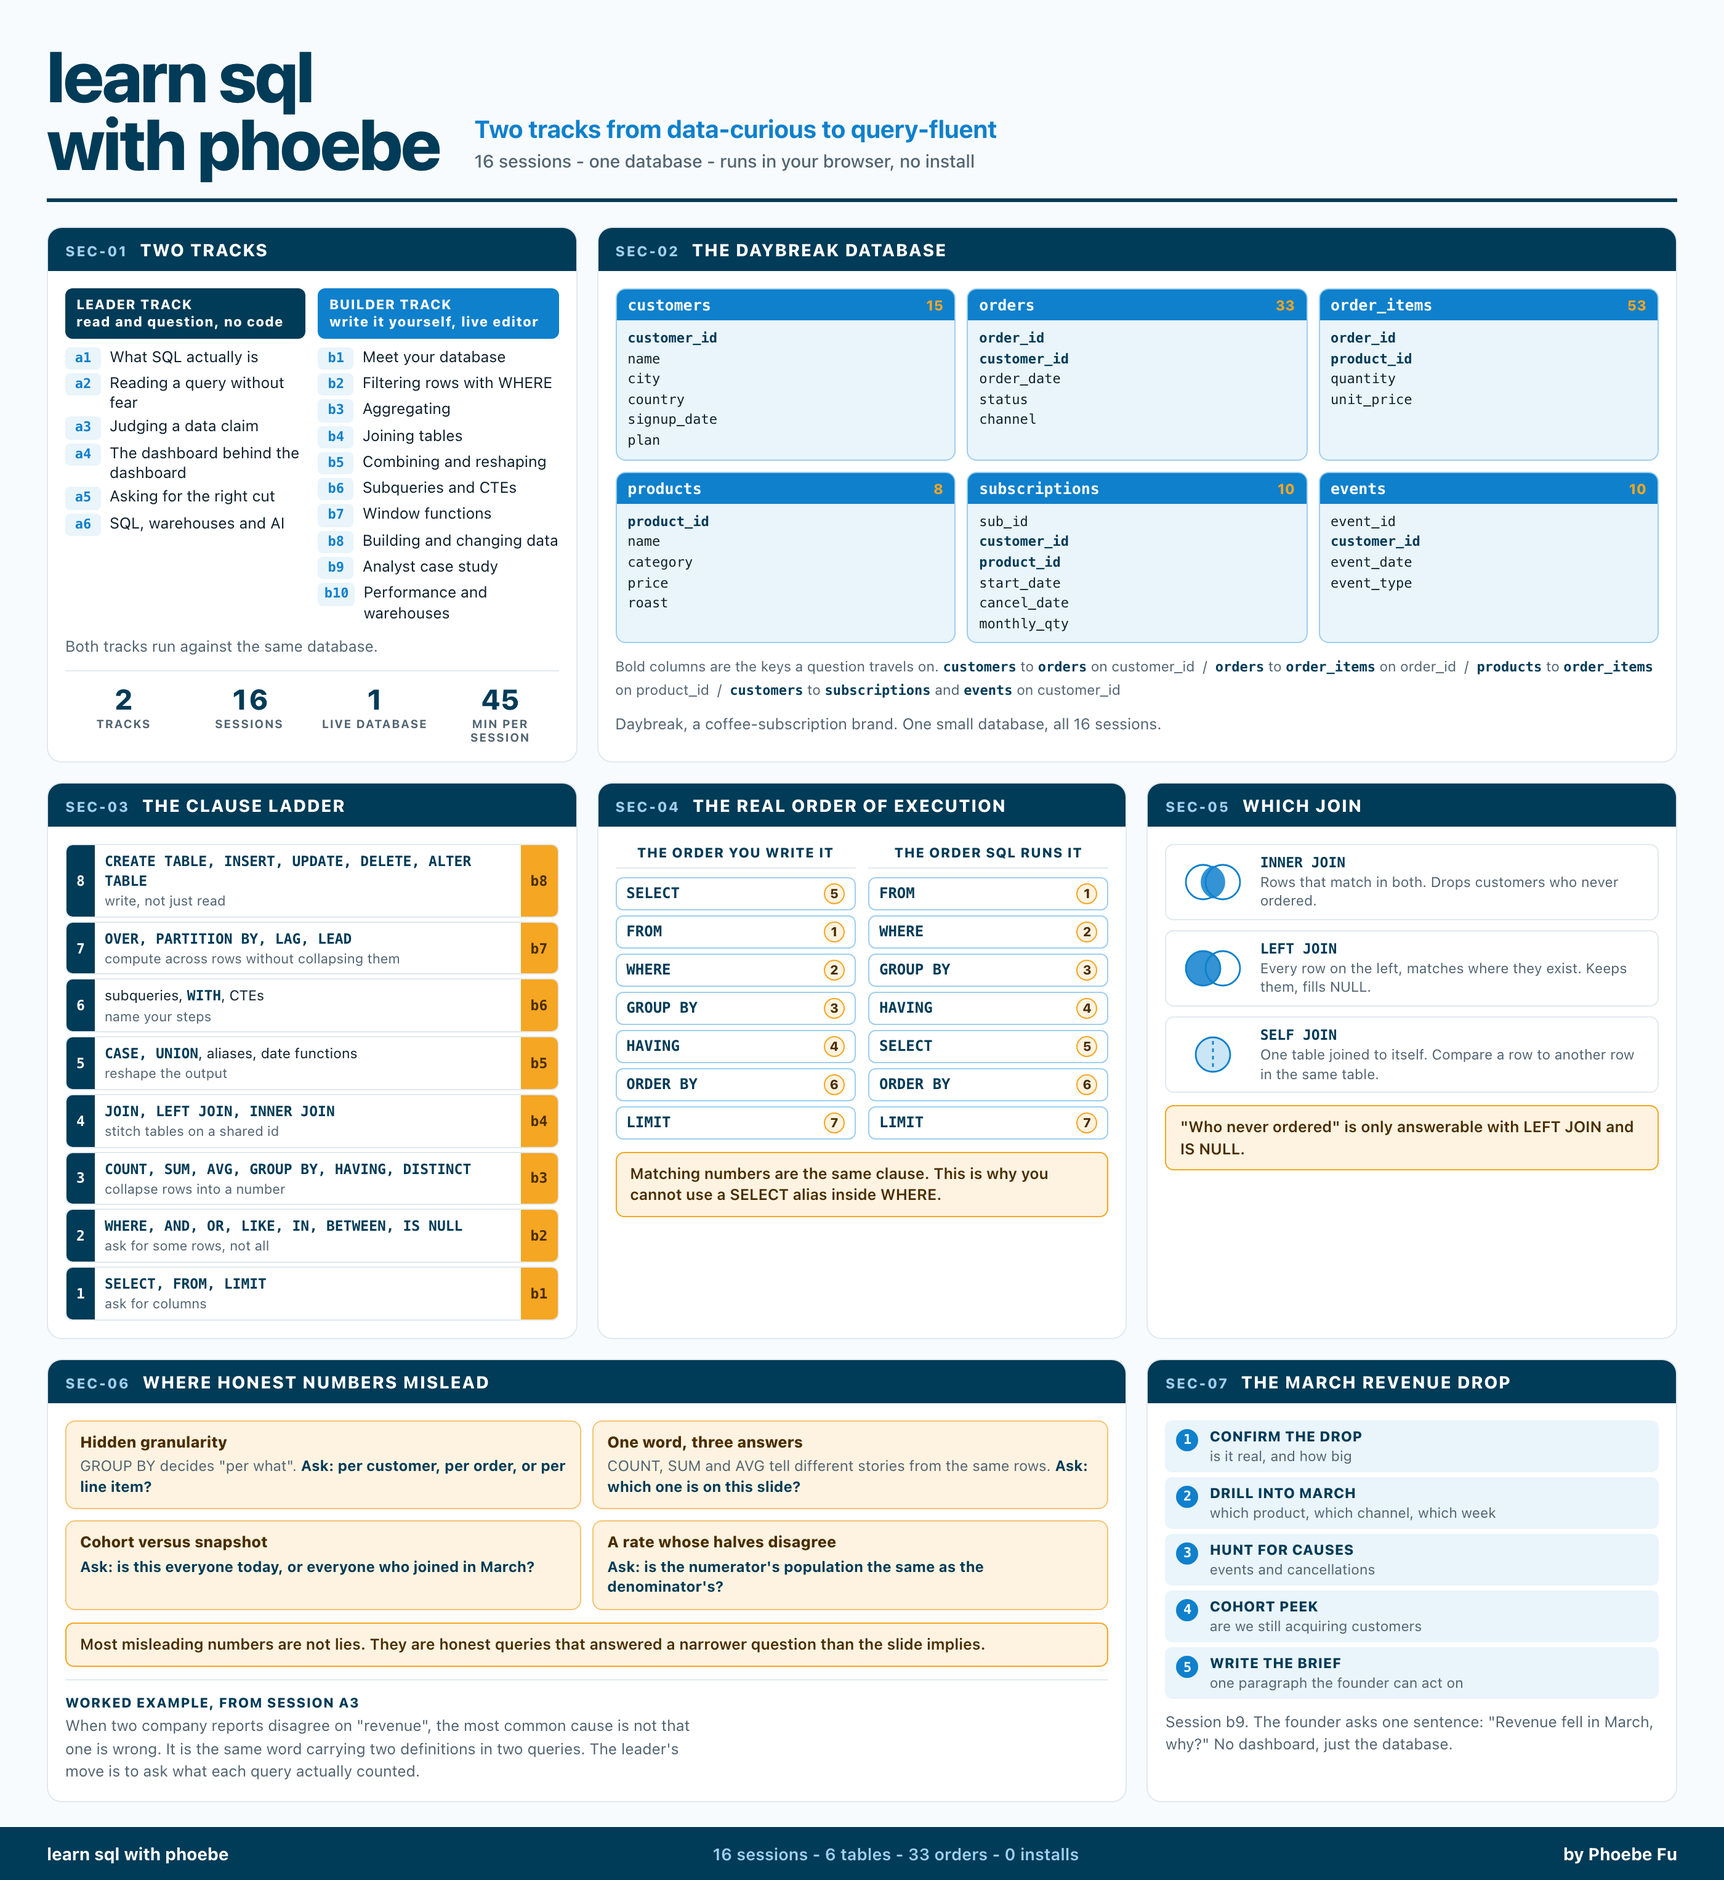
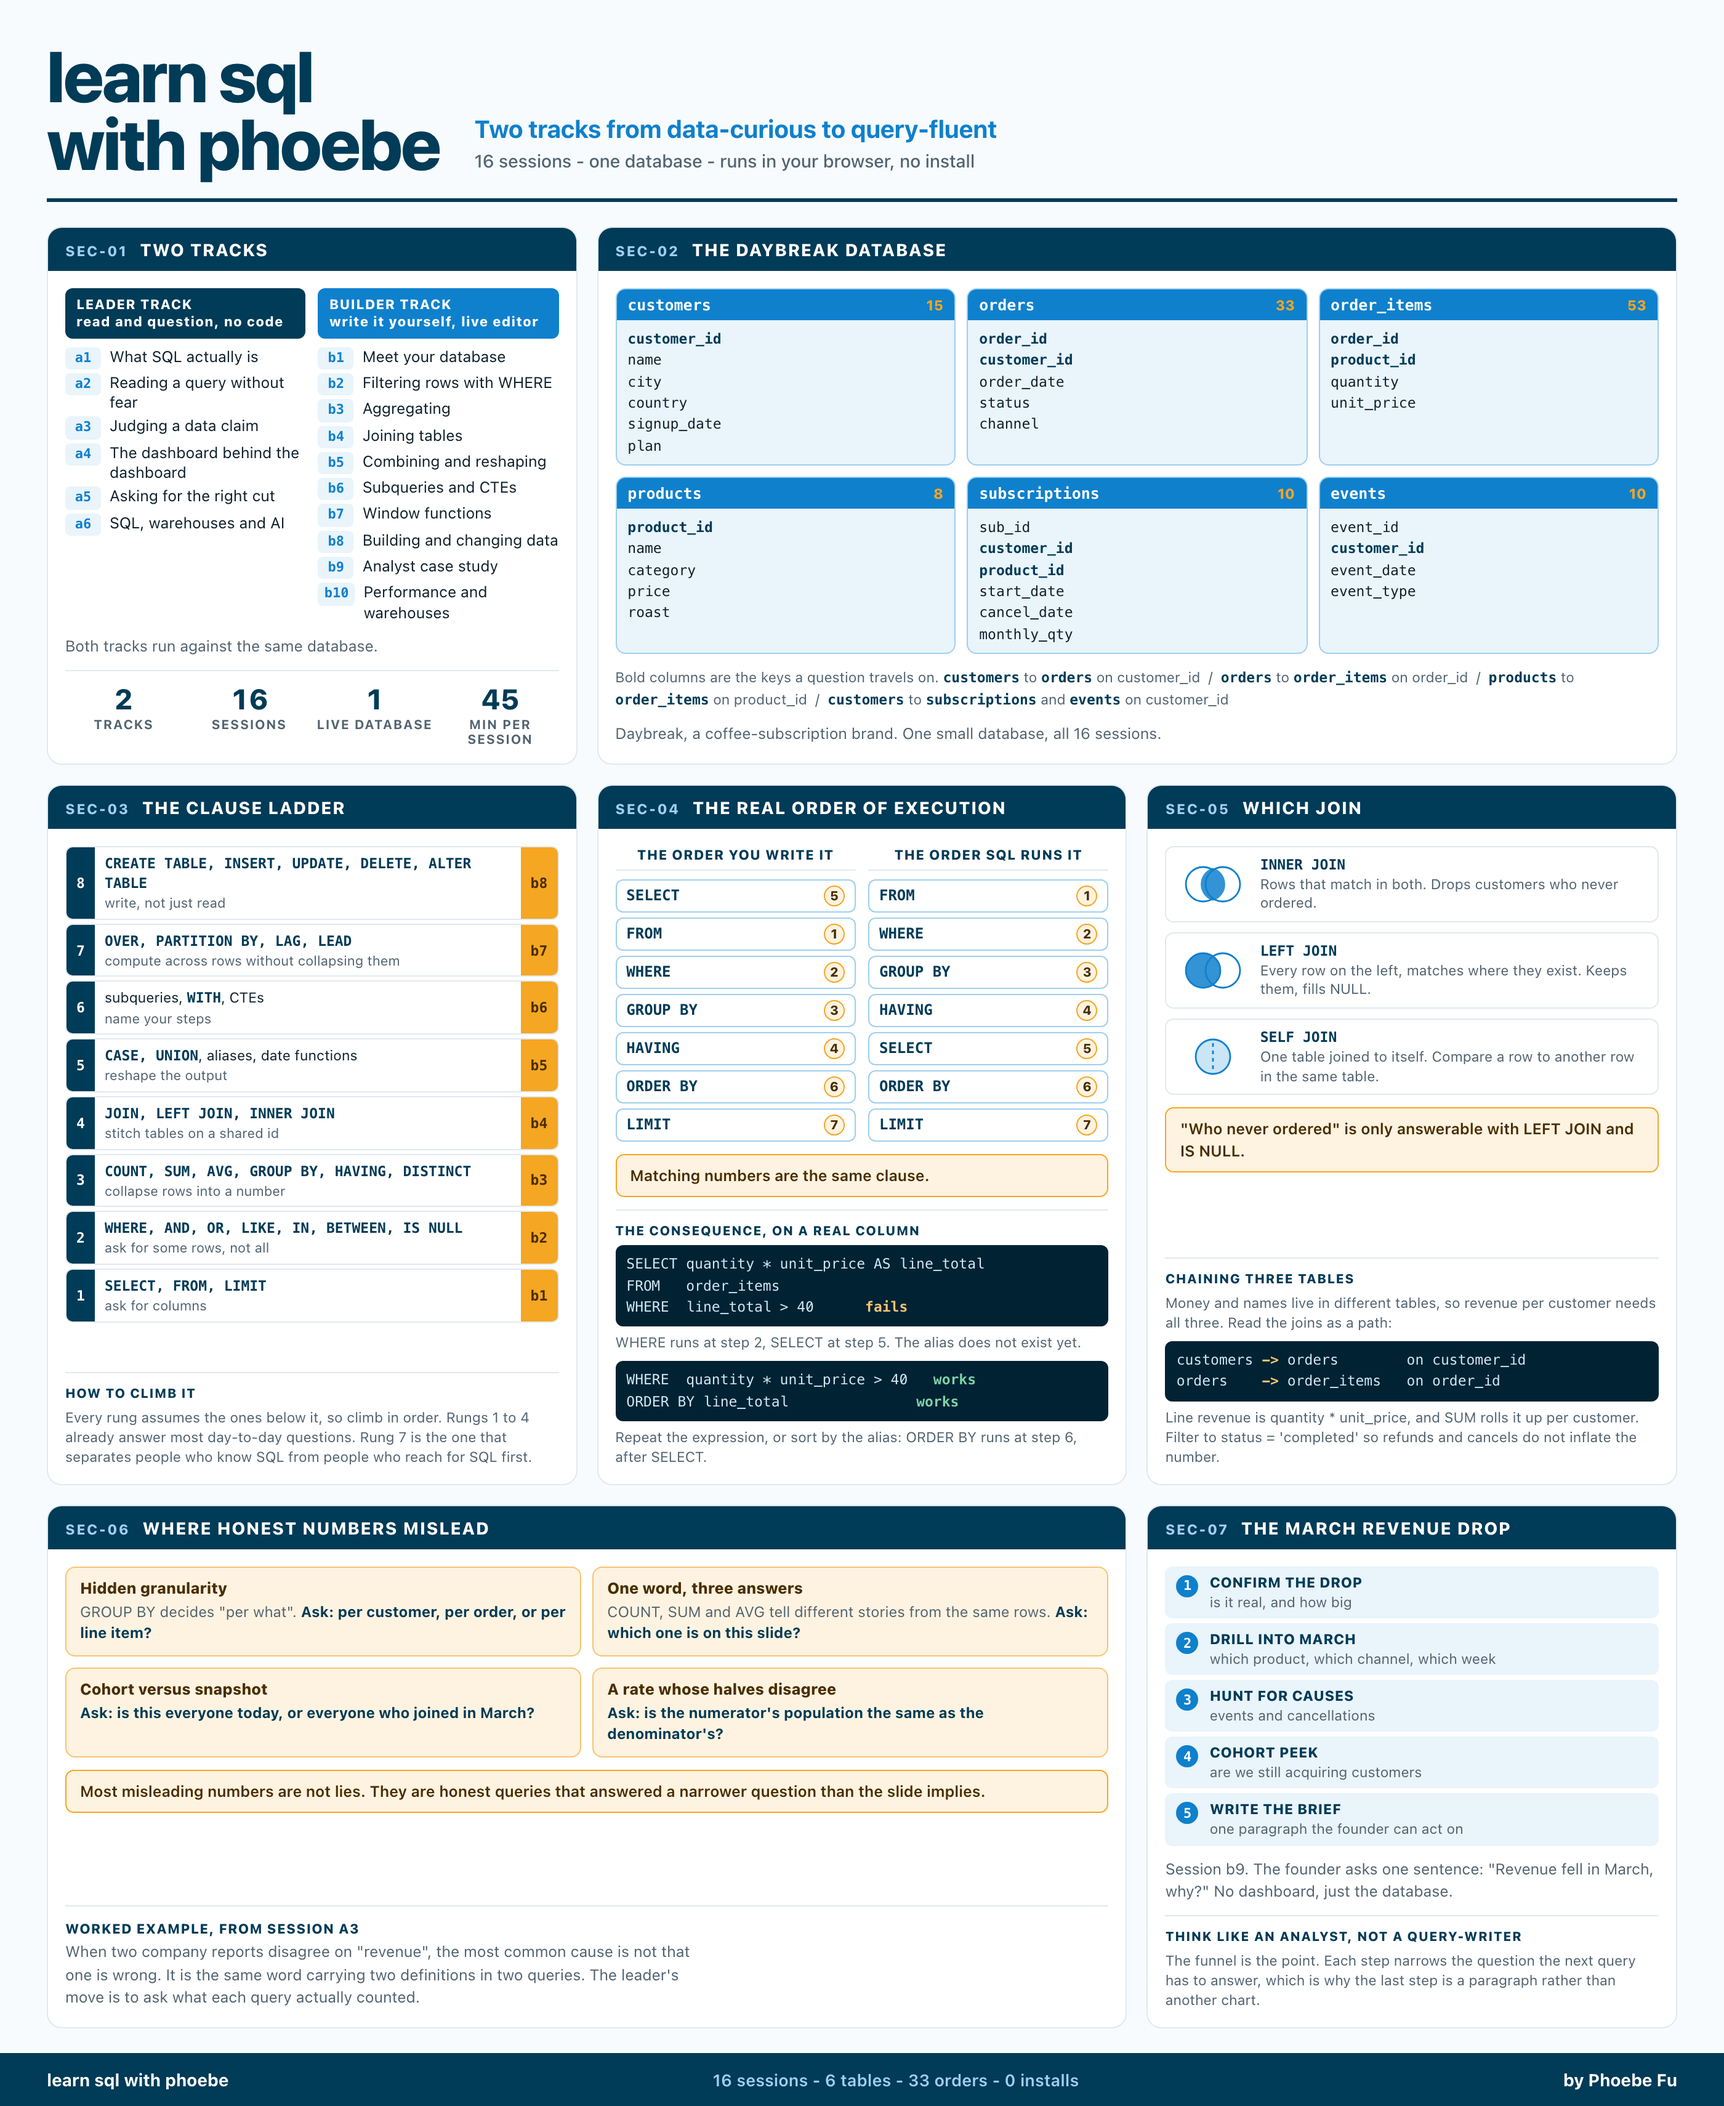
Fill the poster's empty column feet with content the course actually teaches
SEC-03 set the height of the middle row, so SEC-04 and SEC-05 each ended in a
200px void. Rather than pad or shrink, all three modules now carry the material
that was missing from them anyway.

SEC-04 gains the consequence of its own rule, on a real Daybreak column: selecting
quantity * unit_price AS line_total and then filtering WHERE line_total > 40 fails,
because WHERE runs at step 2 and SELECT at step 5, so the alias does not exist yet.
Repeating the expression works, and sorting by the alias works too, because ORDER BY
runs at step 6. The numbered execution order directly above it is what makes both
answers obvious.

SEC-05 gains the three-table chain from session b4: customers to orders on
customer_id, orders to order_items on order_id, line revenue as quantity *
unit_price, and the status = 'completed' filter that keeps refunds and cancels from
inflating the total.

SEC-03 gains how to climb it, and SEC-07 the framing from its own session: the funnel
is the point, each step narrowing the question the next query has to answer, which is
why the last step is a paragraph rather than another chart.

Foot gaps across all seven modules are now 15 to 21px, which is the padding.

Type was audited at the same time, since fit-to-width scales everything. Code blocks
and schema columns went to 11.5px and stat captions to 10.5px, so no source size is
now under 10px and nothing drops below 10.1px effective at a 1280 laptop. The sheet
grew to 2800x3420 for print.
[…]

diff --git a/poster.html b/poster.html
@@ -12,7 +12,7 @@
 <meta property="og:url" content="https://phoebefu6.github.io/learn-sql-with-phoebe/poster.html">
 <meta property="og:image" content="https://phoebefu6.github.io/learn-sql-with-phoebe/assets/poster/learn-sql-with-phoebe-poster.webp">
 <meta property="og:image:width" content="1400">
-<meta property="og:image:height" content="1526">
+<meta property="og:image:height" content="1710">
 <meta name="twitter:card" content="summary_large_image">
 <meta name="twitter:title" content="learn sql with phoebe - the whole course on one poster">
 <meta name="twitter:description" content="The whole SQL course on one sheet: both tracks, the Daybreak schema with real row counts, the clause ladder, the order SQL actually runs your query in, which join to reach for, and the four traps that make an honest query mislead.">
@@ -81,7 +81,7 @@
 .vposter .vp-stats div{text-align:center}
 .vposter .vp-stats b{display:block;font-size:23px;font-weight:800;color:var(--indigo-deep);line-height:1;
         font-variant-numeric:tabular-nums}
-.vposter .vp-stats span{display:block;font-size:9.5px;font-weight:700;color:var(--muted);
+.vposter .vp-stats span{display:block;font-size:10.5px;font-weight:700;color:var(--muted);
         text-transform:uppercase;letter-spacing:.07em;margin-top:3px}
 .vposter /* schema */ .vp-schema{display:grid;grid-template-columns:repeat(3,1fr);gap:9px}
 .vposter .vp-tbl{border:1px solid var(--indigo-soft);border-radius:8px;overflow:hidden;background:var(--indigo-50)}
@@ -89,10 +89,10 @@
         color:#fff;font-family:var(--mono);font-size:12.5px;font-weight:700;padding:5px 9px}
 .vposter .vp-tbl h4 span{font-family:var(--sans);font-size:11.5px;font-weight:800;color:var(--amber)}
 .vposter .vp-tbl ul{list-style:none;padding:7px 9px;display:flex;flex-direction:column;gap:1px}
-.vposter .vp-tbl li{font-family:var(--mono);font-size:11px;color:var(--ink);line-height:1.42}
+.vposter .vp-tbl li{font-family:var(--mono);font-size:11.5px;color:var(--ink);line-height:1.42}
 .vposter .vp-tbl li.vp-key{font-weight:700;color:var(--indigo-deep)}
 .vposter .vp-joins{font-size:11.5px;color:var(--muted);line-height:1.5}
-.vposter .vp-joins b{font-family:var(--mono);font-size:11px;color:var(--indigo-deep)}
+.vposter .vp-joins b{font-family:var(--mono);font-size:11.5px;color:var(--indigo-deep)}
 .vposter /* ladder */ .vp-lad{display:flex;flex-direction:column-reverse;gap:3px}
 .vposter .vp-rung{display:flex;align-items:stretch;gap:0;border:1px solid var(--hairline);border-radius:6px;
         overflow:hidden}
@@ -113,6 +113,15 @@
 .vposter .vp-ord li s{text-decoration:none;font-family:var(--sans);font-size:10.5px;font-weight:800;
         color:var(--amber-ink);background:var(--amber-50);border:1px solid var(--amber);
         border-radius:99px;width:17px;height:17px;display:grid;place-items:center;flex:none}
+.vposter .vp-conseq{margin-top:auto;border-top:1px solid var(--hairline);padding-top:10px}
+.vposter .vp-conseq > b{font-size:10.5px;font-weight:800;color:var(--indigo-deep);letter-spacing:.06em;
+        text-transform:uppercase;display:block;margin-bottom:6px}
+.vposter .vp-code{font-family:var(--mono);font-size:11.5px;line-height:1.5;background:var(--code-bg);
+        color:var(--code-ink);border-radius:6px;padding:7px 9px;white-space:pre;overflow:hidden}
+.vposter .vp-code u{text-decoration:none;color:#F7C371;font-weight:700}
+.vposter .vp-code s{text-decoration:none;color:#7FD1A8;font-weight:700}
+.vposter .vp-conseq p{font-size:11.5px;color:var(--muted);line-height:1.4;margin:5px 0 7px}
+.vposter .vp-conseq p:last-child{margin-bottom:0}
 .vposter /* joins */ .vp-jn{display:flex;flex-direction:column;gap:8px}
 .vposter .vp-jn .vp-row{display:flex;gap:9px;align-items:center;border:1px solid var(--hairline);
         border-radius:7px;padding:7px 9px}
@@ -269,6 +278,12 @@
           <div class="vp-rung"><i>7</i><div class="vp-kw"><b>OVER, PARTITION BY, LAG, LEAD</b> <em>compute across rows without collapsing them</em></div><u>b7</u></div>
           <div class="vp-rung"><i>8</i><div class="vp-kw"><b>CREATE TABLE, INSERT, UPDATE, DELETE, ALTER TABLE</b> <em>write, not just read</em></div><u>b8</u></div>
         </div>
+        <div class="vp-conseq">
+          <b>How to climb it</b>
+          <p>Every rung assumes the ones below it, so climb in order. Rungs 1 to 4 already answer
+          most day-to-day questions. Rung 7 is the one that separates people who know SQL from
+          people who reach for SQL first.</p>
+        </div>
       </div>
     </section>
 
@@ -291,7 +306,17 @@
             </ul>
           </div>
         </div>
-        <div class="vp-flag">Matching numbers are the same clause. This is why you cannot use a SELECT alias inside WHERE.</div>
+        <div class="vp-flag">Matching numbers are the same clause.</div>
+        <div class="vp-conseq">
+          <b>The consequence, on a real column</b>
+          <div class="vp-code">SELECT quantity * unit_price AS line_total
+FROM   order_items
+WHERE  line_total &gt; 40      <u>fails</u></div>
+          <p>WHERE runs at step 2, SELECT at step 5. The alias does not exist yet.</p>
+          <div class="vp-code">WHERE  quantity * unit_price &gt; 40   <s>works</s>
+ORDER BY line_total               <s>works</s></div>
+          <p>Repeat the expression, or sort by the alias: ORDER BY runs at step 6, after SELECT.</p>
+        </div>
       </div>
     </section>
 
@@ -323,6 +348,15 @@
           </div>
         </div>
         <div class="vp-flag">"Who never ordered" is only answerable with LEFT JOIN and IS NULL.</div>
+        <div class="vp-conseq">
+          <b>Chaining three tables</b>
+          <p>Money and names live in different tables, so revenue per customer needs all three.
+          Read the joins as a path:</p>
+          <div class="vp-code">customers <u>-&gt;</u> orders        on customer_id
+orders    <u>-&gt;</u> order_items   on order_id</div>
+          <p>Line revenue is quantity * unit_price, and SUM rolls it up per customer. Filter to
+          status = 'completed' so refunds and cancels do not inflate the number.</p>
+        </div>
       </div>
     </section>
 
@@ -356,6 +390,11 @@
           <div class="vp-step"><i>5</i><div><b>WRITE THE BRIEF</b><span>one paragraph the founder can act on</span></div></div>
         </div>
         <div class="vp-note">Session b9. The founder asks one sentence: "Revenue fell in March, why?" No dashboard, just the database.</div>
+        <div class="vp-conseq">
+          <b>Think like an analyst, not a query-writer</b>
+          <p>The funnel is the point. Each step narrows the question the next query has to answer,
+          which is why the last step is a paragraph rather than another chart.</p>
+        </div>
       </div>
     </section>
 
